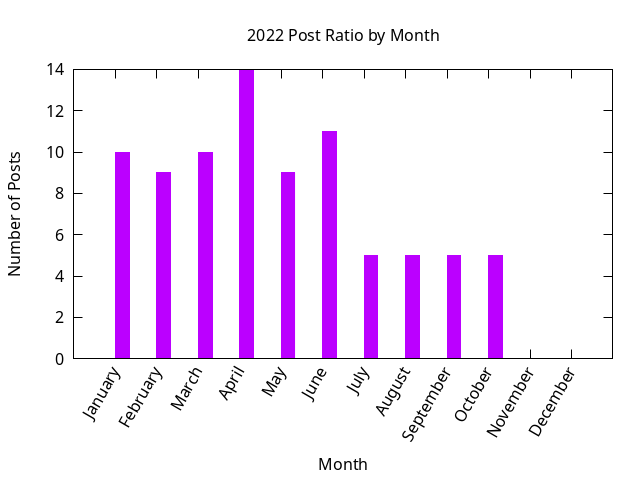
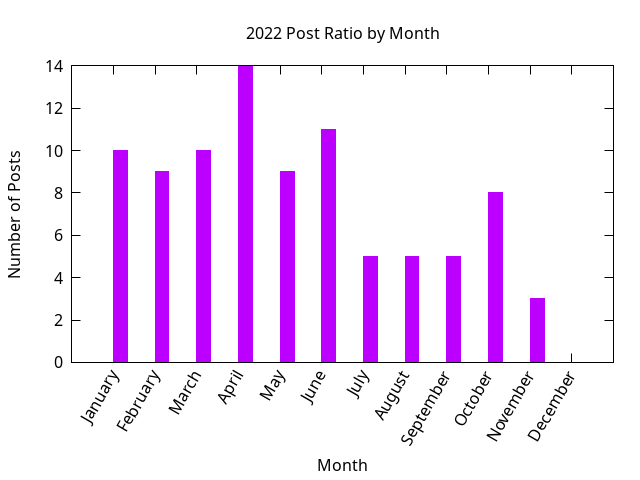
Stats update

diff --git a/_includes/stats/2022.md b/_includes/stats/2022.md
@@ -1,34 +1,34 @@
 <a name="2022" />
 ## 2022 (work in progress)
 
-**83 total posts** have been written on 2022.
+**89 total posts** have been written on 2022.
 There have been *25 different tags* used, the most
 popular being (sorted by number of posts):
  
-- *raku* (43 posts)  
-- *perlweeklychallenge* (43 posts)  
-- *perl* (35 posts)  
-- *postgresql* (21 posts)  
-- *planet-postgresql-org* (20 posts)  
+- *perlweeklychallenge* (47 posts)  
+- *raku* (47 posts)  
+- *perl* (39 posts)  
+- *postgresql* (23 posts)  
+- *planet-postgresql-org* (22 posts)  
 - *linux* (9 posts)  
 - *emacs* (5 posts)  
 - *pgagroal* (5 posts)  
-- *java* (4 posts)  
 - *oracle* (4 posts)  
-- *pgenv* (3 posts)  
+- *java* (4 posts)  
 - *freebsd* (3 posts)  
+- *pgenv* (3 posts)  
 - *openbsd* (2 posts)  
-- *programming* (2 posts)  
 - *shell* (2 posts)  
+- *programming* (2 posts)  
 - *vitualbox* (1 posts)  
+- *sqlite3* (1 posts)  
+- *git* (1 posts)  
 - *pgmoneta* (1 posts)  
+- *zsh* (1 posts)  
+- *gnome* (1 posts)  
 - *php* (1 posts)  
 - *c* (1 posts)  
-- *sqlite3* (1 posts)  
-- *gnome* (1 posts)  
-- *zsh* (1 posts)  
 - *pgbadger* (1 posts)  
-- *git* (1 posts)  
 - *university* (1 posts).<br/>
 <br/>
 The following is the overall 2022 post ratio by month:
@@ -48,7 +48,7 @@ The following is the overall 2022 post ratio by tag (showing max 30 tags):
 
 <div align="right">
 <small>
-Last generated on 2022-10-17 at 14:12
+Last generated on 2022-11-16 at 14:40
 </small>
 </div>
 
